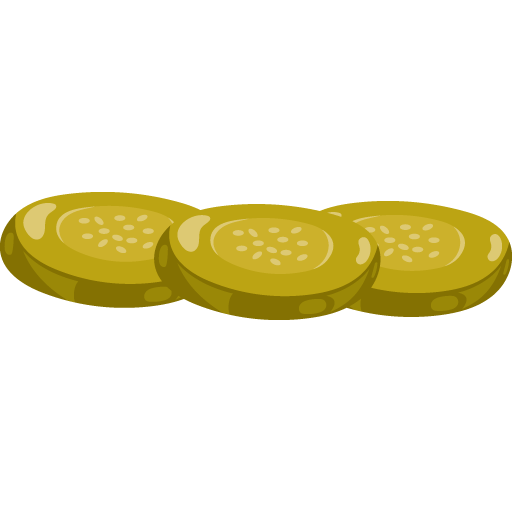
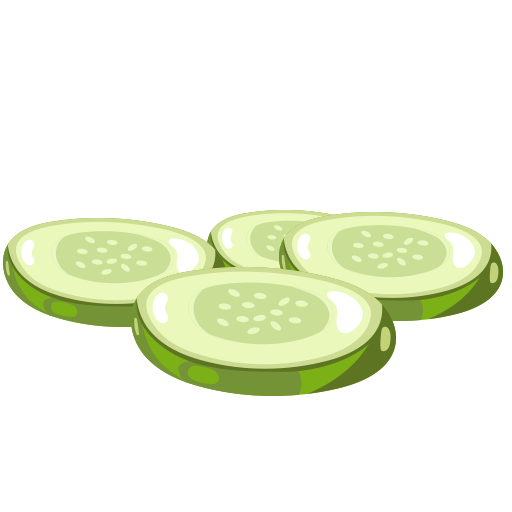
powerups added

Changed region(s): [[0.0, 0.375, 1.0, 0.7812]]

diff --git a/Classes/ShopScene.cpp b/Classes/ShopScene.cpp
@@ -111,6 +111,16 @@ bool ShopScene::init(ValueMap& initData)
 	coinsText->enableOutline(Color4B::GRAY, 2);
 	_coinsText = coinsText;
 
+	_messagePopup = ImageView::create("gui/shop/messagePopup.png");
+	background->addChild(_messagePopup);
+	_messagePopup->setPosition(Vect(_visibleSize.width / 2, _visibleSize.height - _messagePopup->getContentSize().height / 2));
+	auto messageText = Text::create("", GameChoice::getInstance().getFontName(), 60);
+	_messagePopup->addChild(messageText);
+	messageText->setPosition(_messagePopup->getContentSize() / 2);
+	_messagePopup->setPositionY(_messagePopup->getPositionY() + 300);
+	messageText->setTextColor(Color4B::WHITE);
+	messageText->enableOutline(Color4B::GRAY, 3);
+
 	return true;
 }
 
@@ -321,7 +331,7 @@ void ShopScene::showTab(ShopTypes shopType)
 			if (shopType == ShopTypes::Powerup)
 			{
 				shopName = shop["name"].GetString();
-				shopIconPath = StringUtils::format("gui/shop/powers/power_%d.png", itemNumber);
+				shopIconPath = StringUtils::format("gui/shop/powers/powerup_%d.png", itemNumber);
 				frameIconPath = "gui/shop/powers/frame.png";
 				shopIconScale = 1;
 			}
@@ -530,5 +540,21 @@ void ShopScene::updateCoinsText()
 
 void ShopScene::showMessage(const std::string& msg)
 {
+	if (_messagePopup == nullptr)
+		return;
 
+	const int actTag = 1020;
+	auto act = _messagePopup->getActionByTag(actTag);
+	if (act != nullptr && !act->isDone())
+		return;
+
+	auto text = static_cast<Text*>(_messagePopup->getChildren().at(0));
+	text->setString(msg);
+
+	auto seq = Sequence::create(
+		MoveBy::create(.5f, Vect(0, -300)),
+		DelayTime::create(1),
+		MoveBy::create(.5f, Vect(0, 300)), nullptr);
+	seq->setTag(actTag);
+	_messagePopup->runAction(seq);
 }

diff --git a/Classes/SplashScene.cpp b/Classes/SplashScene.cpp
@@ -37,13 +37,14 @@ bool SplashScene::init()
 #if (CC_TARGET_PLATFORM == CC_PLATFORM_ANDROID)
 	auto player = experimental::ui::VideoPlayer::create();
 	addChild(player);
+	player->setName("VideoPlayer");
 	player->setPosition(visibleSize / 2);
 	player->setFileName("gui/splash.mp4");
 	player->play();
 	player->setKeepAspectRatioEnabled(true);
 	player->setContentSize(visibleSize);
 	player->setAnchorPoint(Point::ANCHOR_MIDDLE);
-	_duration = 5.5f;
+	_duration = 6;
 #else
 	auto splashImage = ImageView::create("gui/Logo.png");
 	addChild(splashImage);
@@ -94,6 +95,11 @@ void SplashScene::onEnter()
 
 void SplashScene::goMenu(float dt)
 {
+#if (CC_TARGET_PLATFORM == CC_PLATFORM_ANDROID)
+	auto player = static_cast<experimental::ui::VideoPlayer*>(getChildByName("VideoPlayer"));
+	player->stop();
+#endif
+
 	auto scene = TransitionFade::create(.5f, MenuScene::createSceneData());
 	Director::getInstance()->replaceScene(scene);
 }

diff --git a/Classes/GameplayScene.cpp b/Classes/GameplayScene.cpp
@@ -364,8 +364,7 @@ void GameplayScene::dishButtonCallback(cocos2d::Ref* sender, cocos2d::ui::Widget
 			trueSign->setVisible(true);
 			falseSign->setVisible(false);
 
-			//play right sound
-			//TODO
+			CocosDenshion::SimpleAudioEngine::getInstance()->playEffect("sounds/right.ogg");
 
 			FoodFactory::getInstance().consumeFood(food->getType());
 
@@ -399,8 +398,7 @@ void GameplayScene::dishButtonCallback(cocos2d::Ref* sender, cocos2d::ui::Widget
 			trueSign->setVisible(false);
 			falseSign->setVisible(true);
 
-			//play wrong sound
-			//TODO
+			CocosDenshion::SimpleAudioEngine::getInstance()->playEffect("sounds/wrong.ogg");
 		}
 	}
 }

diff --git a/Classes/Food.h b/Classes/Food.h
@@ -10,13 +10,16 @@ enum class FoodTypes
 	Bread,
 	Sauce,
 	Meat,
-	Cucumber,
+	Cucumber_Salty,
 	Onion,
 	Steak,
 	Lettuce,
 	CheeseGoda,
 	FishFillet,
 	Tomato,
+	Ham_Meat,
+	Egg_Half,
+	Cucumber,
 
 	Count
 };

diff --git a/Classes/ShopScene.h b/Classes/ShopScene.h
@@ -84,6 +84,8 @@ private:
 	int _foodAddAmount = 0;
 
 	cocos2d::ui::Text* _coinsText;
+
+	cocos2d::ui::ImageView* _messagePopup = nullptr;
 };
 
 #endif //__SHOP_SCENE_H__
